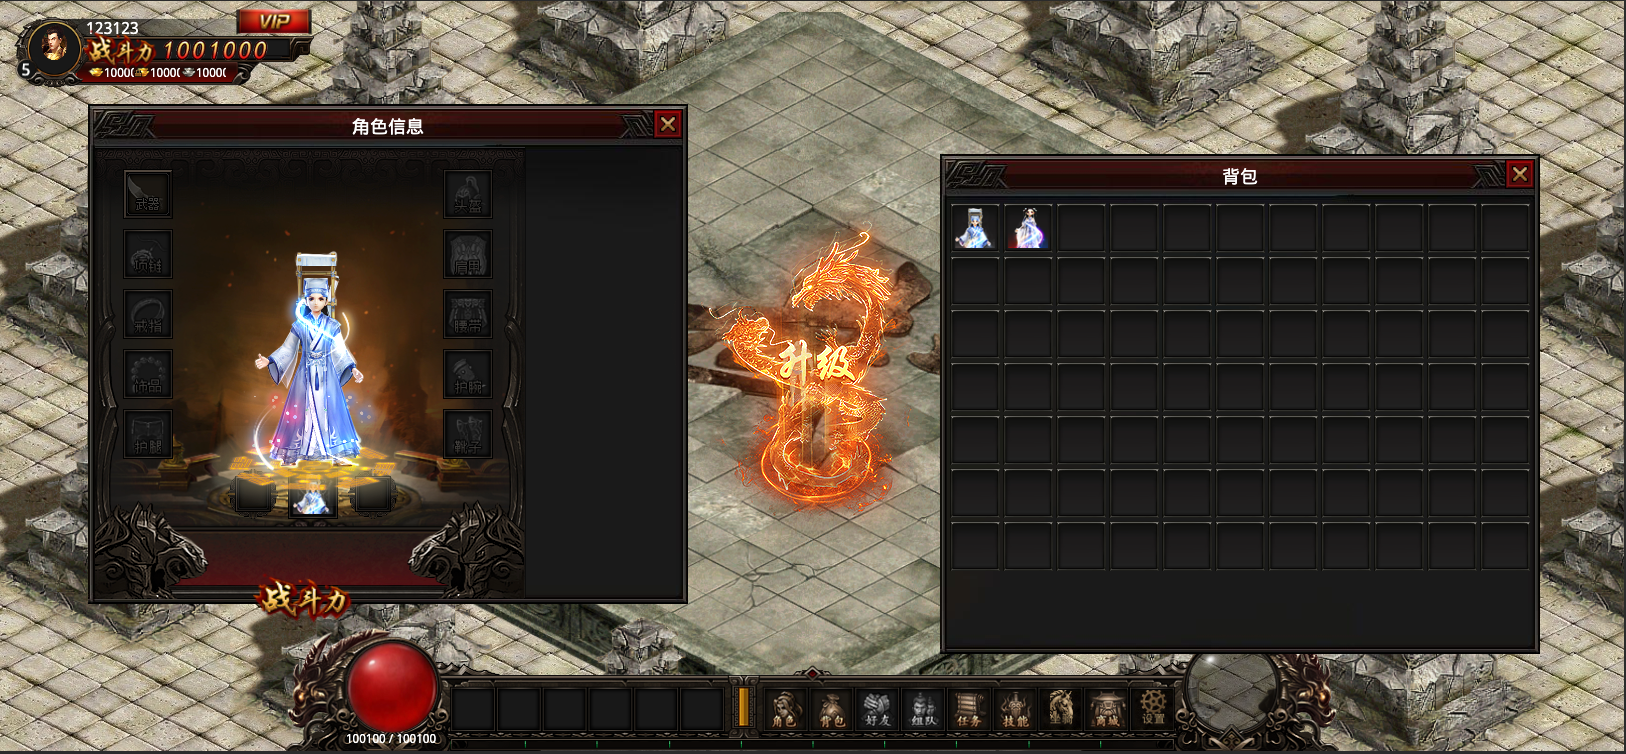
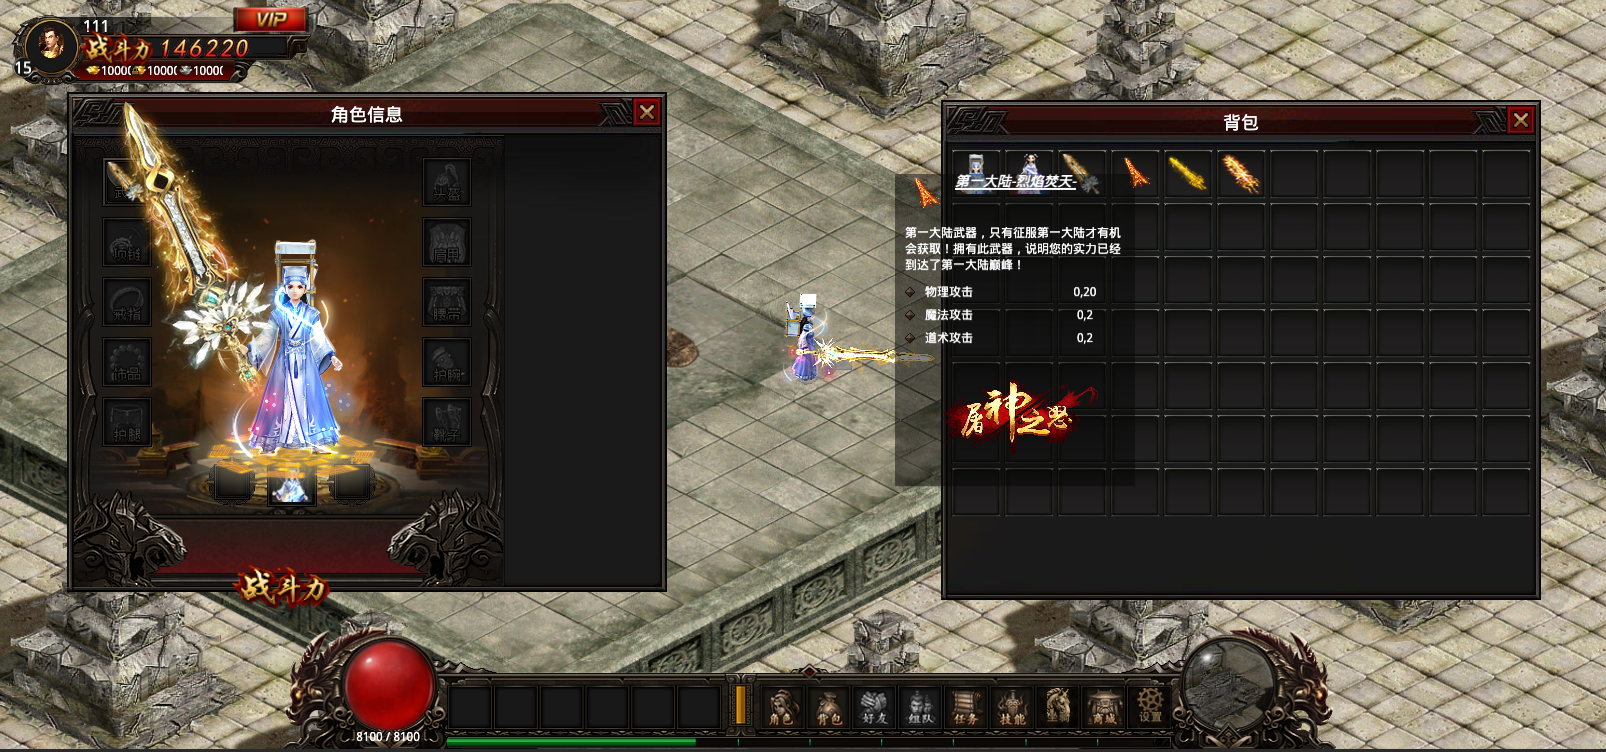
update readme.md

diff --git a/README.md b/README.md
@@ -13,7 +13,8 @@
 - 场景：登录、角色选择、游戏，以及加载场景。
 - 角色成长：泡点活动按时间增加经验，角色经验与等级可动态更新，并展示升级特效。
 - 角色表现：支持角色动画、朝向和动作切换，可在场景中更新角色位置。
-- 装备与属性：支持穿戴装备、更新装备外观、查看背包，并计算和实时更新战斗力等角色属性。
+- 装备与属性：支持穿戴装备、更新装备外观、查看背包；等级配置按生命值成长设置基础攻防区间，换装后汇总等级与装备属性并重新计算战斗力。
+- 属性调试：计算属性时在控制台输出血量、物理/魔法/道术攻击与防御区间，以及战斗力。
 - 地图与界面：包含地图定位和复活逻辑、角色信息弹窗、底部导航及血量显示。
 
 ## 技术与运行
@@ -49,3 +50,8 @@
 - 支持角色穿戴装备、展示服装外观并动态更新装备。
 - 添加战斗力计算和实时属性更新，完善血量显示、底部导航与界面细节。
 - 保存登录、角色选择和游戏场景截图。
+
+### 2026-09-28：等级属性与计算日志
+
+- 按等级生命值成长生成角色基础攻击、防御区间。
+- 换装后从等级基础属性重新汇总装备加成，并输出中文属性摘要和战斗力。
